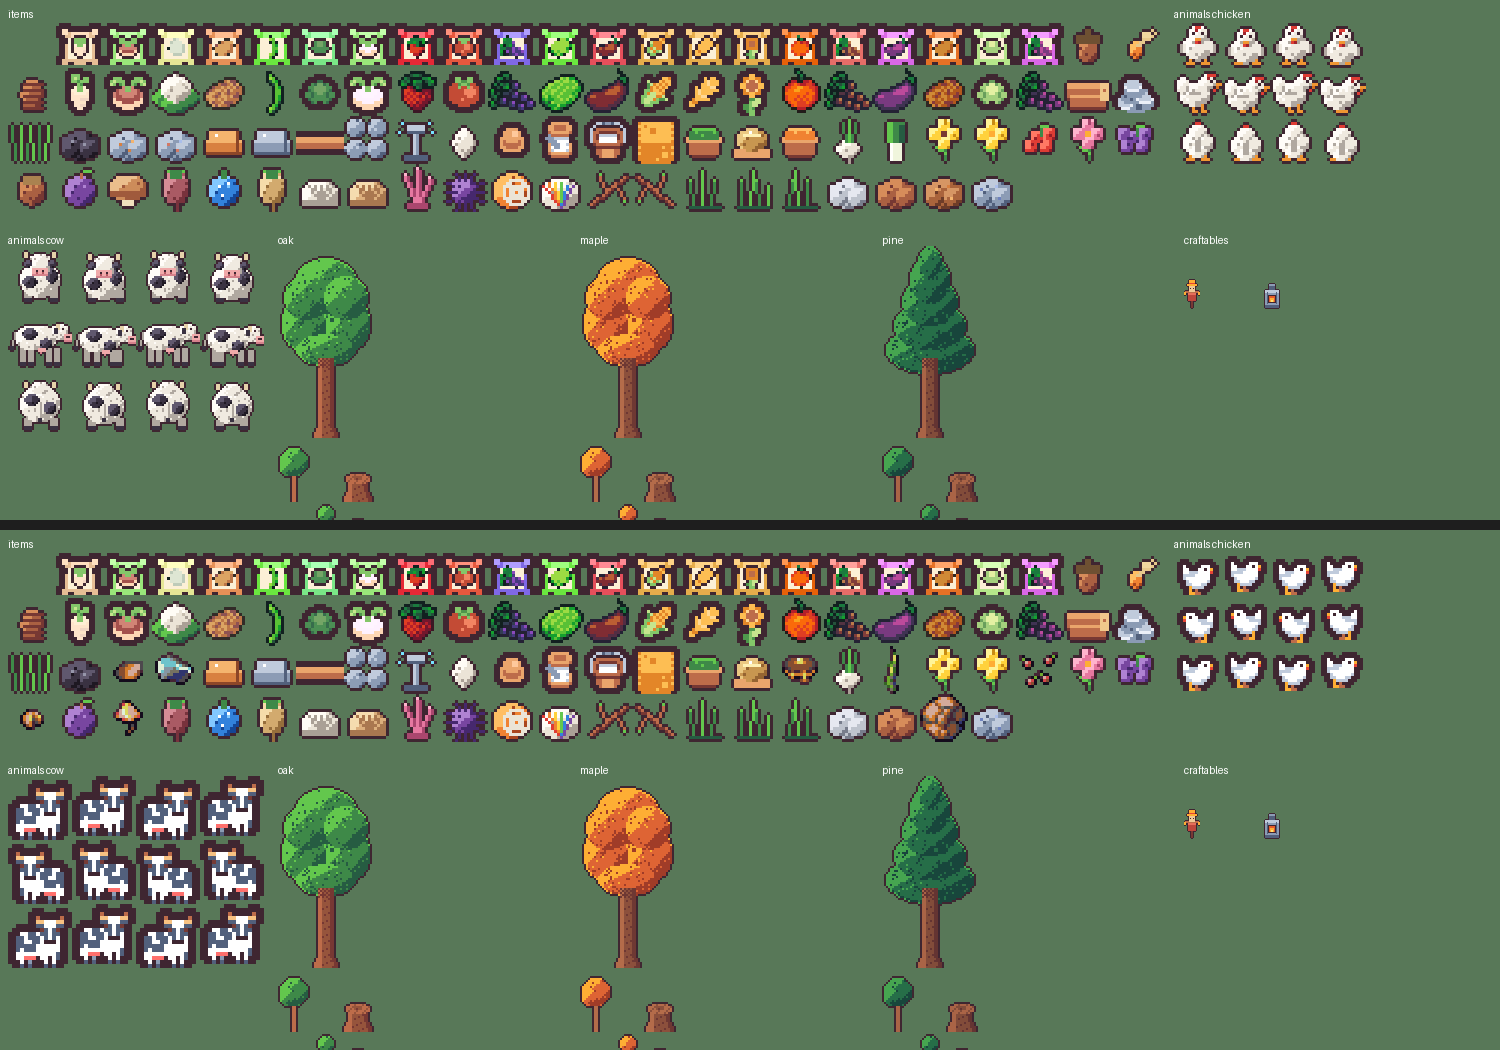
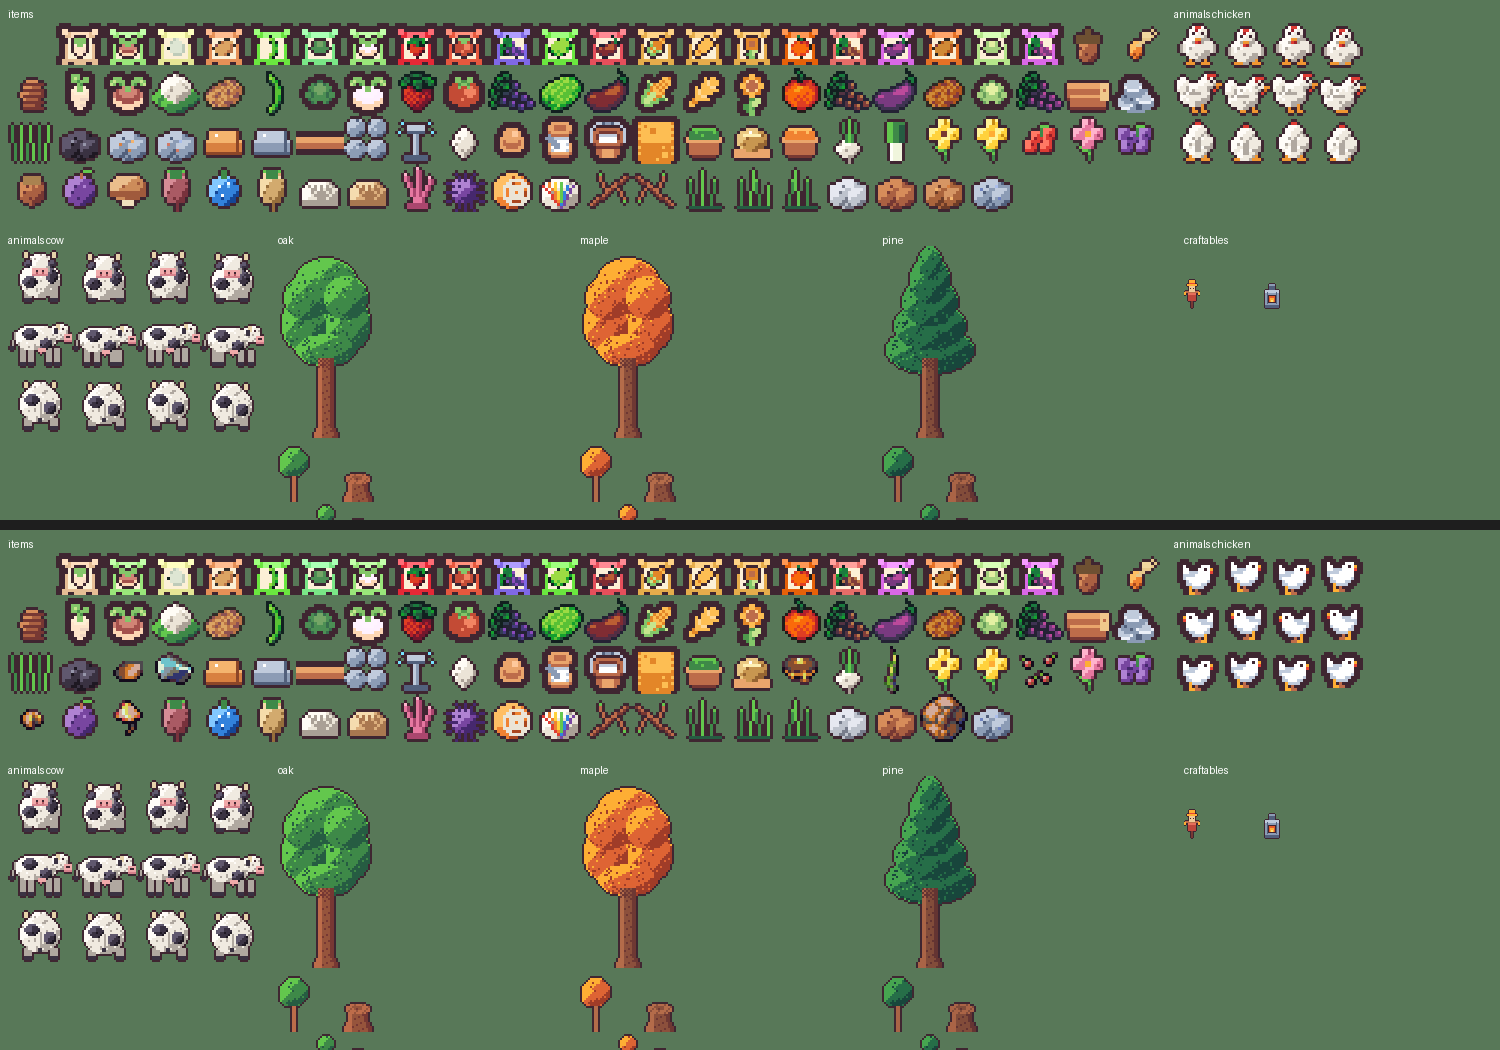
docs(art): QA note, contact sheet and screenshots after the cow revert and the UI merge
Claude-Session: https://claude.ai/code/session_01JSQmuL8Te43R8GUut7P2YE

Changed region(s): [[0.0, 0.7314, 0.184, 0.9448]]

diff --git a/docs/qa/asset-library-2026-10-27.md b/docs/qa/asset-library-2026-10-27.md
@@ -6,23 +6,23 @@ Branch `feat/asset-library`. The library: [`../art/library.md`](../art/library.m
 
 | Sheet | Before | After |
 | :-- | :-- | :-- |
-| `sprites/animals/chicken.png`, `cow.png` | drawn blobs | Tiny Creatures (CC0): one picture per animal, flipped for the right row, bobbing on the walk frames; the cow doubled to fill its 32 x 32 frame |
+| `sprites/animals/chicken.png` | drawn blobs | Tiny Creatures (CC0): one 16 px picture, flipped for the right row, bobbing on the walk frames |
 | `sprites/craftables.png` | drawn chest | Tiny Dungeon (CC0) chest |
 | `sprites/items.png` cells 50, 51, 91 | drawn rocks | DawnLike (CC-BY 4.0): copper chunk, steel-blue ore chunk, copper boulder |
 | `sprites/items.png` cells 64, 66, 69, 72, 74 | drawn icons | DawnLike: soup bowl, leek, red berries, hazelnut, mushroom |
 
-Not swapped, and why: the farmer layers (no CC0 16 x 32 base with the same frame layout and tintable parts; Kenney's character pack is 16 x 16), trees and buildings (the current ones are larger and better matched than the 16 x 16 library trees), NPC sprites, `assets/ui` and the maps (other sessions), furniture (the placeable rectangles of `PlaceableCatalog` are bespoke views; the library's furniture is a candidate for a later pass). The game has no monsters yet, so the monster packs are library only.
+Not swapped, and why: the cow (Tiny Creatures' 16 px cow had to be doubled to fill its 32 px frame, which gives a 2 px outline that clashes with the chicken and the farmer, so the drawn cow stays); the farmer layers (no CC0 16 x 32 base with the same frame layout and tintable parts; Kenney's character pack is 16 x 16), trees and buildings (the current ones are larger and better matched than the 16 x 16 library trees), NPC sprites, `assets/ui` and the maps (other sessions), furniture (the placeable rectangles of `PlaceableCatalog` are bespoke views; the library's furniture is a candidate for a later pass). The game has no monsters yet, so the monster packs are library only.
 
 ## Before and after
 
-[`asset-library-contact-2026-10-27.png`](asset-library-contact-2026-10-27.png): the changed sheets (items, chicken, cow, trees, craftables), before on top, after below.
+[`asset-library-contact-2026-10-27.png`](asset-library-contact-2026-10-27.png): the changed sheets (items, chicken, trees, craftables), before on top, after below.
 
 ## In the game (1280 x 720)
 
 | Screenshot | Shows |
 | :-- | :-- |
 | [`asset-library-ingame-coop-1280x720.png`](asset-library-ingame-coop-1280x720.png) | Three chickens in the coop |
-| [`asset-library-ingame-barn-1280x720.png`](asset-library-ingame-barn-1280x720.png) | Three cows in the barn with milk to collect |
+| [`asset-library-ingame-barn-1280x720.png`](asset-library-ingame-barn-1280x720.png) | Three (drawn) cows in the barn with milk to collect |
 | [`asset-library-ingame-mine-1280x720.png`](asset-library-ingame-mine-1280x720.png) | Mine floor 25: the copper boulder and the other rock nodes |
 | [`asset-library-ingame-interior-1280x720.png`](asset-library-ingame-interior-1280x720.png) | The farmhouse with the new chest (left of the rug) and the furnace |
 | [`asset-library-ingame-inventory-1280x720.png`](asset-library-ingame-inventory-1280x720.png) | Inventory: steel ore, mushroom, hazelnut, berries, leek, soup, chest, furnace and the copper ore in the hotbar |
@@ -33,6 +33,5 @@ Host `DOTNET_ENVIRONMENT=Development` with `NOSUM_CALENDAR_EPOCH` six hours befo
 
 ## Limits
 
-- The animals have one picture facing left: the down and up rows repeat it, so a cow walking up shows its face.
-- The cow's pixels are twice the size of the rest of the art.
+- The chicken has one picture facing left: its down and up rows repeat it, so it shows its face walking up.
 - The in-game credit for DawnLike is `wwwroot/credits.txt`; there is no credits screen yet.

diff --git a/docs/art/library.md b/docs/art/library.md
@@ -20,7 +20,7 @@ The art that reaches the game goes through `tools/art_repack` (`python3 tools/ar
 | [`josehzz_farming-crops-16x16`](https://opengameart.org/content/farming-crops-16x16) Farming crops 16x16 | josehzz | CC0 | 20 crops, six pictures each (seed, three stages, ripe), 16 px | Crops without a Tiny Farm picture (strawberry, potato, grapes, ...) |
 | [`dawnlike`](https://opengameart.org/content/dawnlike-16x16-universal-rogue-like-tileset-v181) DawnLike 16x16 Universal Rogue-like tileset v1.81 | DragonDePlatino | CC-BY 4.0 | CC-BY 4.0. 16 px with two animation frames: 400 creatures (animals, birds, undead, demons, slimes, humanoids, player races), 800 items (food, rocks, tools, weapons, armour, potions, scrolls), objects (trees, ore, doors, decor, traps, effects), floors, walls, GUI, fonts | Mushroom, hazelnut, berries, leek, soup, copper and steel ore, copper boulder icons |
 | [`tiny16`](https://opengameart.org/content/tiny-16-basic) Tiny 16 (Basic, Dungeon, Overworld sheets) | Sharm (Lanea Zimmerman) | CC-BY 4.0 | CC-BY 4.0. Three 16 px sheets: basic tiles, dungeon, overworld | Not used yet |
-| [`oga_tiny-creatures`](https://opengameart.org/content/tiny-creatures) Tiny Creatures 1.0 | Clint Bellanger | CC0 1.0 | About 180 16 px animals, monsters, birds, fish and fantasy creatures in the Kenney style (Tiny Town/Dungeon palette) | Chicken and cow |
+| [`oga_tiny-creatures`](https://opengameart.org/content/tiny-creatures) Tiny Creatures 1.0 | Clint Bellanger | CC0 1.0 | About 180 16 px animals, monsters, birds, fish and fantasy creatures in the Kenney style (Tiny Town/Dungeon palette) | Chicken |
 | [`oga_trash-mobs`](https://opengameart.org/content/16x16-fantasy-rpg-trash-mobs-animated) 16x16 Fantasy RPG Trash Mobs (animated) | Emcee Flesher | CC0 | 16 px animated fantasy monsters (goblins, skeletons, orcs, ...) | Not used yet (monster candidates) |
 | [`oga_animated-slimes`](https://opengameart.org/content/16x16-animated-slimes) 16x16 Animated Slimes | stealthix | CC0 | Animated 16 px slimes in three colours and two sizes | Not used yet (monster candidates) |
 | [`oga_16x16-dungeon-tiles`](https://opengameart.org/content/16x16-dungeon-tiles) 16x16 Dungeon Tiles | ETTiNGRiNDER | CC0 | 80 single 16 px dungeon, effect and item tiles | Not used yet |
